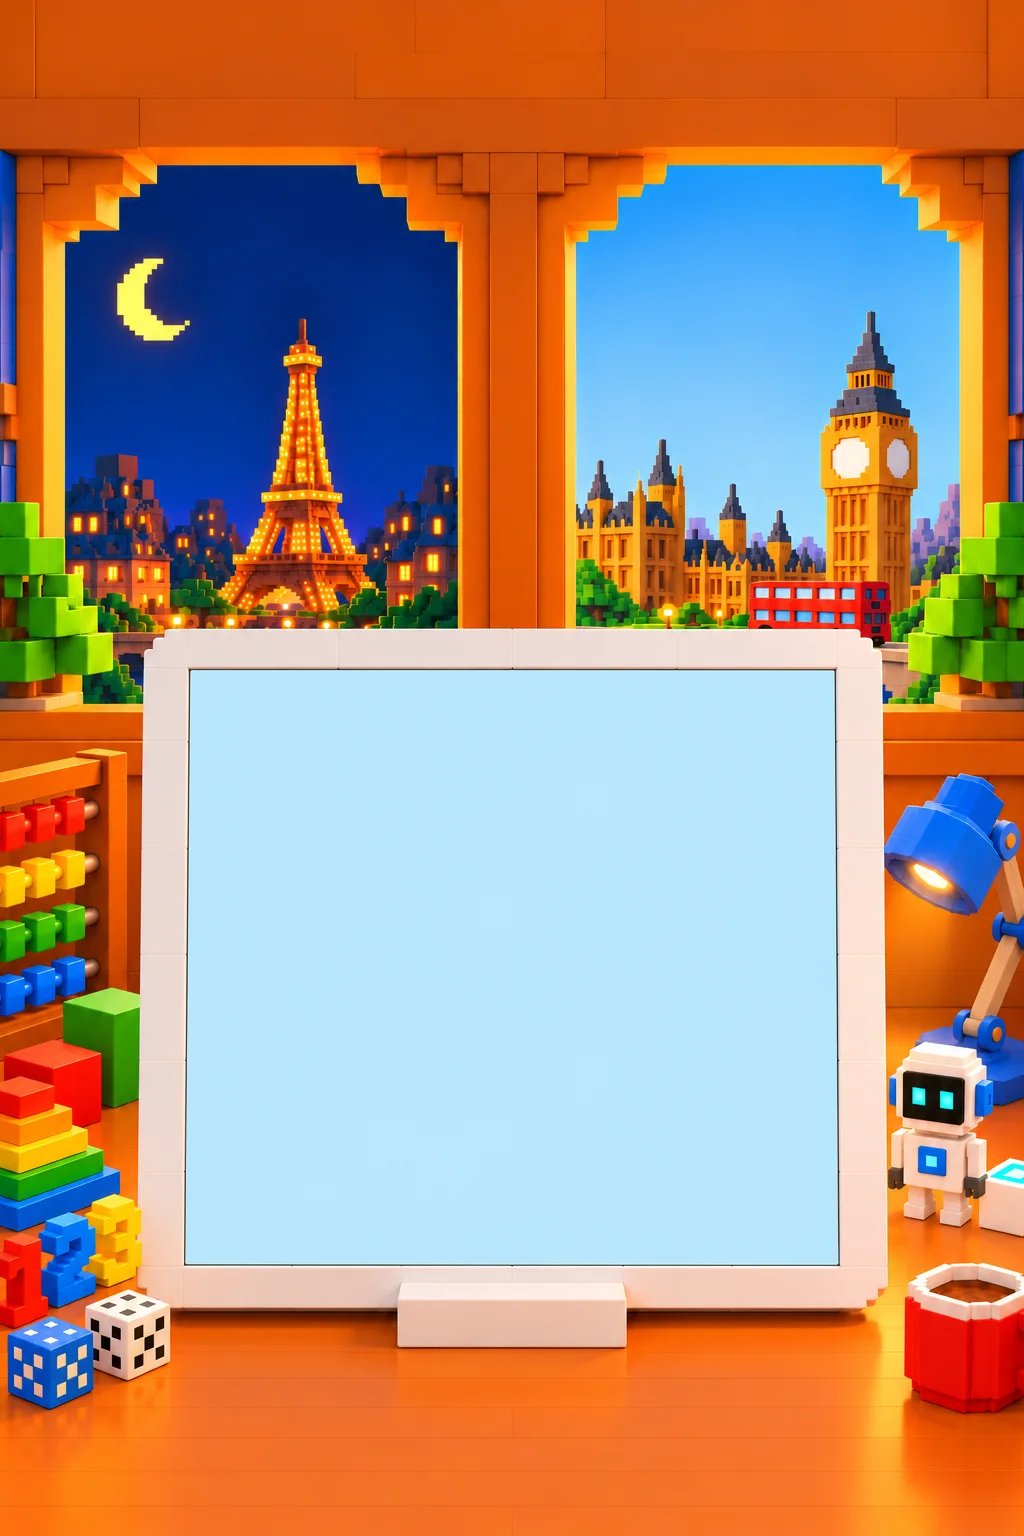
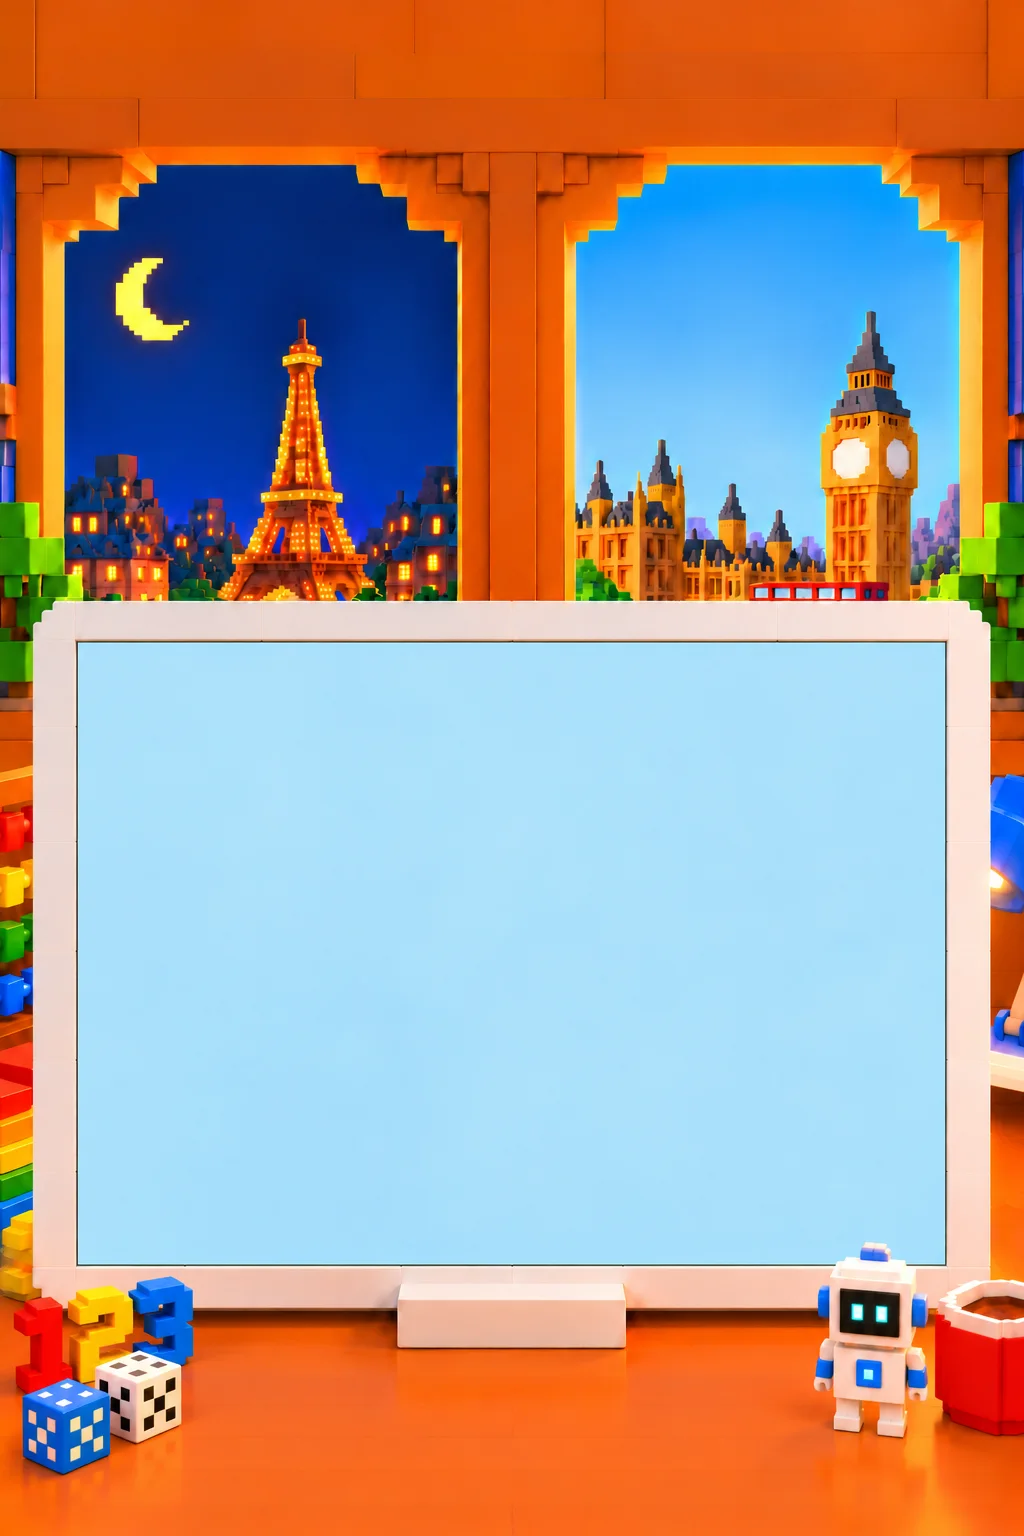
Vorschau: Handy-Startseite mit neuem Schreibtisch, größeres iPad, mehr Animationen
Claude-Session: https://claude.ai/code/session_01Rrx3BPHrRPsxut6ZYjGyzy

diff --git a/grundschulmax/app-vorschau/index.html b/grundschulmax/app-vorschau/index.html
@@ -3851,17 +3851,17 @@ body[data-screen=start] .hero{position:relative;overflow:hidden;background:linea
   .desk{display:block;position:absolute;left:0;top:0;width:100vw;height:calc(var(--u)*1536);pointer-events:none;z-index:1;overflow:hidden}
   .desk img,.desk i{position:absolute;display:block}
   /* Inhalt im iPad (Bildschirm x188–838, y670–1265) */
-  body[data-screen=start] .hero h1{position:absolute!important;z-index:3;left:calc(var(--u)*200);width:calc(var(--u)*626);top:calc(var(--u)*688);margin:0;font-size:calc(var(--u)*48);line-height:1.06;text-align:center}
-  body[data-screen=start] .hero .teamrow{position:absolute!important;z-index:3;left:calc(var(--u)*200);width:calc(var(--u)*626);top:calc(var(--u)*832);margin:0;gap:0}
+  body[data-screen=start] .hero h1{position:absolute!important;z-index:3;left:calc(var(--u)*92);width:calc(var(--u)*840);top:calc(var(--u)*672);margin:0;font-size:calc(var(--u)*58);line-height:1.06;text-align:center}
+  body[data-screen=start] .hero .teamrow{position:absolute!important;z-index:3;left:calc(var(--u)*110);width:calc(var(--u)*804);top:calc(var(--u)*806);margin:0;gap:0}
   body[data-screen=start] .hero .teamrow .tcap{display:none}
-  body[data-screen=start] .hero .tiles{display:grid;grid-template-columns:repeat(3,1fr);gap:calc(var(--u)*6) calc(var(--u)*10);width:100%;max-width:none;padding:0}
-  body[data-screen=start] .hero .tm .tmc{width:calc(var(--u)*104);height:calc(var(--u)*104);border-radius:calc(var(--u)*30);box-shadow:0 0 0 calc(var(--u)*6) #fff,0 calc(var(--u)*10) calc(var(--u)*18) rgba(0,0,0,.18)}
+  body[data-screen=start] .hero .tiles{display:grid;grid-template-columns:repeat(3,1fr);gap:calc(var(--u)*8) calc(var(--u)*10);width:100%;max-width:none;padding:0}
+  body[data-screen=start] .hero .tm .tmc{width:calc(var(--u)*114);height:calc(var(--u)*114);border-radius:calc(var(--u)*30);box-shadow:0 0 0 calc(var(--u)*6) #fff,0 calc(var(--u)*10) calc(var(--u)*18) rgba(0,0,0,.18)}
   body[data-screen=start] .hero .tm .tma{border-radius:0 0 calc(var(--u)*26) calc(var(--u)*26)}
-  body[data-screen=start] .hero .tm b{font-size:calc(var(--u)*28);margin-top:calc(var(--u)*10);line-height:1}
-  body[data-screen=start] .hero .tm small{font-size:calc(var(--u)*22);line-height:1.15}
+  body[data-screen=start] .hero .tm b{font-size:calc(var(--u)*31);margin-top:calc(var(--u)*10);line-height:1}
+  body[data-screen=start] .hero .tm small{font-size:calc(var(--u)*24);line-height:1.15}
   /* Buttons auf dem Tisch */
-  body[data-screen=start] .hero .ctas{position:absolute!important;z-index:3;left:calc(var(--u)*40);right:calc(var(--u)*40);top:calc(var(--u)*1378);width:auto!important;max-width:none!important;margin:0!important;display:flex!important;flex-direction:row!important;flex-wrap:nowrap;gap:calc(var(--u)*24)}
-  body[data-screen=start] .hero .ctas .b3d{flex:1 1 0!important;width:auto!important;min-width:0;margin:0!important;height:calc(var(--u)*118);font-size:calc(var(--u)*36);padding:0 calc(var(--u)*14)!important;white-space:nowrap;gap:calc(var(--u)*12)}
+  body[data-screen=start] .hero .ctas{position:absolute!important;z-index:3;left:calc(var(--u)*215);right:calc(var(--u)*222);top:calc(var(--u)*1322);width:auto!important;max-width:none!important;margin:0!important;display:flex!important;flex-direction:column!important;flex-wrap:nowrap;gap:calc(var(--u)*16)}
+  body[data-screen=start] .hero .ctas .b3d{flex:1 1 0!important;width:auto!important;min-width:0;margin:0!important;flex:0 0 auto!important;height:calc(var(--u)*92);font-size:calc(var(--u)*38);padding:0 calc(var(--u)*14)!important;white-space:nowrap;gap:calc(var(--u)*12)}
   body[data-screen=start] .hero .ctas .b3d svg{width:calc(var(--u)*30);height:calc(var(--u)*30)}
   body[data-screen=start] .nav3 .brand>span:last-child{display:none}
   body[data-screen=start] .hero .small,body[data-screen=start] .hero p.lead{position:relative;z-index:2;color:#fff;text-shadow:0 1px 2px rgba(0,0,0,.25)}
@@ -3896,10 +3896,10 @@ body[data-screen=start] .hero{position:relative;overflow:hidden;background:linea
   .hm{width:calc(var(--u)*7);left:calc(var(--u)*847.5);top:calc(var(--u)*439);animation:dclk 60s linear infinite}
   @keyframes dclk{to{transform:rotate(360deg)}}
   /* Lampe, Roboter, Hologramm */
-  .dlamp{left:calc(var(--u)*880);top:calc(var(--u)*840);width:calc(var(--u)*110);height:calc(var(--u)*80);border-radius:50%;background:radial-gradient(closest-side,rgba(255,224,150,.75),rgba(255,200,110,0));mix-blend-mode:screen;animation:dlp 5s ease-in-out infinite}
+  .dlamp{left:calc(var(--u)*930);top:calc(var(--u)*830);width:calc(var(--u)*140);height:calc(var(--u)*130);border-radius:50%;background:radial-gradient(closest-side,rgba(255,224,150,.75),rgba(255,200,110,0));mix-blend-mode:screen;animation:dlp 5s ease-in-out infinite}
   @keyframes dlp{0%,100%{opacity:.55}50%{opacity:1}}
-  .deye{top:calc(var(--u)*1089);width:calc(var(--u)*16);height:calc(var(--u)*16);background:#7ff3ff;box-shadow:0 0 calc(var(--u)*10) #3fe0ff;animation:dey 5s steps(1) infinite}
-  .deye.e1{left:calc(var(--u)*910)}.deye.e2{left:calc(var(--u)*938)}
+  .deye{top:calc(var(--u)*1294);width:calc(var(--u)*12);height:calc(var(--u)*17);background:#7ff3ff;box-shadow:0 0 calc(var(--u)*10) #3fe0ff;animation:dey 5s steps(1) infinite}
+  .deye.e1{left:calc(var(--u)*850)}.deye.e2{left:calc(var(--u)*874)}
   @keyframes dey{0%,88%,100%{transform:scaleY(1)}91%,94%{transform:scaleY(.1)}}
   .dbase{left:calc(var(--u)*975);top:calc(var(--u)*1150);width:calc(var(--u)*70);height:calc(var(--u)*45);border-radius:50%;background:radial-gradient(closest-side,rgba(90,235,255,.8),rgba(90,235,255,0));animation:dlp 3s ease-in-out infinite}
   .dcube{width:calc(var(--u)*46);left:calc(var(--u)*980);top:calc(var(--u)*1080);animation:dcb 4s ease-in-out infinite}
@@ -3909,15 +3909,29 @@ body[data-screen=start] .hero{position:relative;overflow:hidden;background:linea
   @keyframes dpx{0%{opacity:0;transform:translateY(0)}20%{opacity:1}100%{opacity:0;transform:translateY(calc(var(--u)*-60))}}
   /* Kakao-Dampf über der Tasse (x962 y1262) */
   .dst1,.dst2,.dst3{opacity:0;transform-origin:50% 100%}
-  .dst1{width:calc(var(--u)*30);left:calc(var(--u)*940);top:calc(var(--u)*1180);animation:dsm 4.2s ease-out infinite}
-  .dst2{width:calc(var(--u)*26);left:calc(var(--u)*962);top:calc(var(--u)*1195);animation:dsm 4.2s ease-out infinite 1.4s}
-  .dst3{width:calc(var(--u)*22);left:calc(var(--u)*950);top:calc(var(--u)*1215);animation:dsm 4.2s ease-out infinite 2.8s}
+  .dst1{width:calc(var(--u)*34);left:calc(var(--u)*958);top:calc(var(--u)*1200);animation:dsm 4.2s ease-out infinite}
+  .dst2{width:calc(var(--u)*30);left:calc(var(--u)*988);top:calc(var(--u)*1215);animation:dsm 4.2s ease-out infinite 1.4s}
+  .dst3{width:calc(var(--u)*26);left:calc(var(--u)*972);top:calc(var(--u)*1238);animation:dsm 4.2s ease-out infinite 2.8s}
   @keyframes dsm{0%{opacity:0;transform:translateY(calc(var(--u)*20)) scale(.6)}25%{opacity:.75}100%{opacity:0;transform:translateY(calc(var(--u)*-50)) scale(1.15) translateX(calc(var(--u)*6))}}
   /* Papierflieger quer über die Fenster */
   .dplane{width:calc(var(--u)*60);left:calc(var(--u)*-80);top:calc(var(--u)*230);opacity:0;animation:dpl 22s linear infinite 6s}
   @keyframes dpl{0%{opacity:1;transform:translate(0,0) rotate(6deg)}18%{transform:translate(calc(var(--u)*600),calc(var(--u)*-40)) rotate(-4deg)}30%{opacity:1;transform:translate(calc(var(--u)*1150),calc(var(--u)*30)) rotate(8deg)}31%,100%{opacity:0;transform:translate(calc(var(--u)*1150),calc(var(--u)*30))}}
 }
 @media (prefers-reduced-motion:reduce){.desk *{animation:none!important}.dshoot,.dplane,.dpx,.dst1,.dst2,.dst3,.dspk{display:none}}
+
+@media (max-width:820px){
+  .dbase,.dcube,.dpx{display:none!important}
+  /* Paris: Fensterlichter flackern, Big-Ben-Glanz, Zahlen hüpfen, Lampenlicht auf dem Tisch */
+  .dwl{position:absolute;width:calc(var(--u)*9);height:calc(var(--u)*11);background:#ffd36a;box-shadow:0 0 calc(var(--u)*8) #ffb63a;animation:dwl 7s steps(1) infinite}
+  @keyframes dwl{0%,100%{opacity:1}40%{opacity:.15}55%{opacity:1}}
+  .dnum{position:absolute;left:calc(var(--u)*14);top:calc(var(--u)*1270);width:calc(var(--u)*185);height:calc(var(--u)*110);border-radius:50%;background:radial-gradient(closest-side,rgba(255,240,170,.45),rgba(255,240,170,0));mix-blend-mode:screen;animation:dlp 6s ease-in-out infinite}
+  .dspot{position:absolute;left:calc(var(--u)*760);top:calc(var(--u)*1060);width:calc(var(--u)*300);height:calc(var(--u)*260);border-radius:50%;background:radial-gradient(closest-side,rgba(255,214,140,.35),rgba(255,214,140,0));mix-blend-mode:screen;animation:dlp 5s ease-in-out infinite}
+  body[data-screen=start] .hero .tm .tmc{animation:tmb 4.5s ease-in-out infinite}
+  body[data-screen=start] .hero .tm:nth-child(2) .tmc{animation-delay:-.75s}body[data-screen=start] .hero .tm:nth-child(3) .tmc{animation-delay:-1.5s}body[data-screen=start] .hero .tm:nth-child(4) .tmc{animation-delay:-2.25s}body[data-screen=start] .hero .tm:nth-child(5) .tmc{animation-delay:-3s}body[data-screen=start] .hero .tm:nth-child(6) .tmc{animation-delay:-3.75s}
+  @keyframes tmb{0%,100%{transform:translateY(0)}50%{transform:translateY(calc(var(--u)*-8))}}
+}
+@media (prefers-reduced-motion:reduce){body[data-screen=start] .hero .tm .tmc{animation:none!important}}
+@media (max-width:820px){body[data-screen=start] .hero .ctas{align-items:stretch!important}body[data-screen=start] .hero .ctas .b3d{width:100%!important;justify-content:center}}
 </style>
 </head>
 <body>
@@ -3990,7 +4004,7 @@ body[data-screen=start] .hero{position:relative;overflow:hidden;background:linea
       </div>
       <div class="desk" aria-hidden="true">
         <div class="dwin dpar"><i class="dst" style="left:calc(var(--u)*110);top:calc(var(--u)*200);animation-delay:-0s"></i><i class="dst" style="left:calc(var(--u)*205);top:calc(var(--u)*185);animation-delay:-1.3s"></i><i class="dst" style="left:calc(var(--u)*390);top:calc(var(--u)*215);animation-delay:-2.1s"></i><i class="dst" style="left:calc(var(--u)*420);top:calc(var(--u)*330);animation-delay:-0.6s"></i><i class="dst" style="left:calc(var(--u)*250);top:calc(var(--u)*250);animation-delay:-3.2s"></i><i class="dst" style="left:calc(var(--u)*330);top:calc(var(--u)*190);animation-delay:-1.8s"></i><i class="dst" style="left:calc(var(--u)*95);top:calc(var(--u)*400);animation-delay:-2.7s"></i><i class="dst" style="left:calc(var(--u)*440);top:calc(var(--u)*260);animation-delay:-0.9s"></i><i class="dst" style="left:calc(var(--u)*180);top:calc(var(--u)*350);animation-delay:-3.6s"></i><i class="dst" style="left:calc(var(--u)*360);top:calc(var(--u)*300);animation-delay:-1.1s"></i><img class="dshoot" src="/grundschulmax/sp/desk/shoot.webp" alt=""></div>
-        <div class="dspks"><img class="dspk" src="/grundschulmax/sp/desk/spark.webp" alt="" style="left:calc(var(--u)*300);top:calc(var(--u)*345);animation-delay:0s"><img class="dspk" src="/grundschulmax/sp/desk/spark.webp" alt="" style="left:calc(var(--u)*270);top:calc(var(--u)*430);animation-delay:0.25s"><img class="dspk" src="/grundschulmax/sp/desk/spark.webp" alt="" style="left:calc(var(--u)*330);top:calc(var(--u)*440);animation-delay:0.5s"><img class="dspk" src="/grundschulmax/sp/desk/spark.webp" alt="" style="left:calc(var(--u)*250);top:calc(var(--u)*530);animation-delay:0.15s"><img class="dspk" src="/grundschulmax/sp/desk/spark.webp" alt="" style="left:calc(var(--u)*352);top:calc(var(--u)*535);animation-delay:0.4s"><img class="dspk" src="/grundschulmax/sp/desk/spark.webp" alt="" style="left:calc(var(--u)*300);top:calc(var(--u)*480);animation-delay:0.65s"><img class="dspk" src="/grundschulmax/sp/desk/spark.webp" alt="" style="left:calc(var(--u)*225);top:calc(var(--u)*590);animation-delay:0.3s"><img class="dspk" src="/grundschulmax/sp/desk/spark.webp" alt="" style="left:calc(var(--u)*375);top:calc(var(--u)*592);animation-delay:0.55s"></div>
+        <i class="dwl" style="left:calc(var(--u)*104);top:calc(var(--u)*520);animation-delay:-0s"></i><i class="dwl" style="left:calc(var(--u)*140);top:calc(var(--u)*550);animation-delay:-2.3s"></i><i class="dwl" style="left:calc(var(--u)*398);top:calc(var(--u)*520);animation-delay:-4.1s"></i><i class="dwl" style="left:calc(var(--u)*430);top:calc(var(--u)*556);animation-delay:-1.2s"></i><i class="dwl" style="left:calc(var(--u)*186);top:calc(var(--u)*505);animation-delay:-5.4s"></i><i class="dnum"></i><i class="dspot"></i><div class="dspks"><img class="dspk" src="/grundschulmax/sp/desk/spark.webp" alt="" style="left:calc(var(--u)*300);top:calc(var(--u)*345);animation-delay:0s"><img class="dspk" src="/grundschulmax/sp/desk/spark.webp" alt="" style="left:calc(var(--u)*270);top:calc(var(--u)*430);animation-delay:0.25s"><img class="dspk" src="/grundschulmax/sp/desk/spark.webp" alt="" style="left:calc(var(--u)*330);top:calc(var(--u)*440);animation-delay:0.5s"><img class="dspk" src="/grundschulmax/sp/desk/spark.webp" alt="" style="left:calc(var(--u)*250);top:calc(var(--u)*530);animation-delay:0.15s"><img class="dspk" src="/grundschulmax/sp/desk/spark.webp" alt="" style="left:calc(var(--u)*352);top:calc(var(--u)*535);animation-delay:0.4s"><img class="dspk" src="/grundschulmax/sp/desk/spark.webp" alt="" style="left:calc(var(--u)*300);top:calc(var(--u)*480);animation-delay:0.65s"><img class="dspk" src="/grundschulmax/sp/desk/spark.webp" alt="" style="left:calc(var(--u)*225);top:calc(var(--u)*590);animation-delay:0.3s"><img class="dspk" src="/grundschulmax/sp/desk/spark.webp" alt="" style="left:calc(var(--u)*375);top:calc(var(--u)*592);animation-delay:0.55s"></div>
         <div class="dwin dlon"><img class="dcl c1" src="/grundschulmax/sp/desk/cloud1.webp" alt=""><img class="dcl c2" src="/grundschulmax/sp/desk/cloud2.webp" alt=""><img class="dbal" src="/grundschulmax/sp/desk/balloon.webp" alt=""><span class="dbird"><img src="/grundschulmax/sp/desk/bird1.webp" alt=""><img src="/grundschulmax/sp/desk/bird2.webp" alt=""></span></div>
         <img class="dhand hh" src="/grundschulmax/sp/desk/hhour.webp" alt=""><img class="dhand hm" src="/grundschulmax/sp/desk/hmin.webp" alt="">
         <i class="dlamp"></i><i class="deye e1"></i><i class="deye e2"></i>
